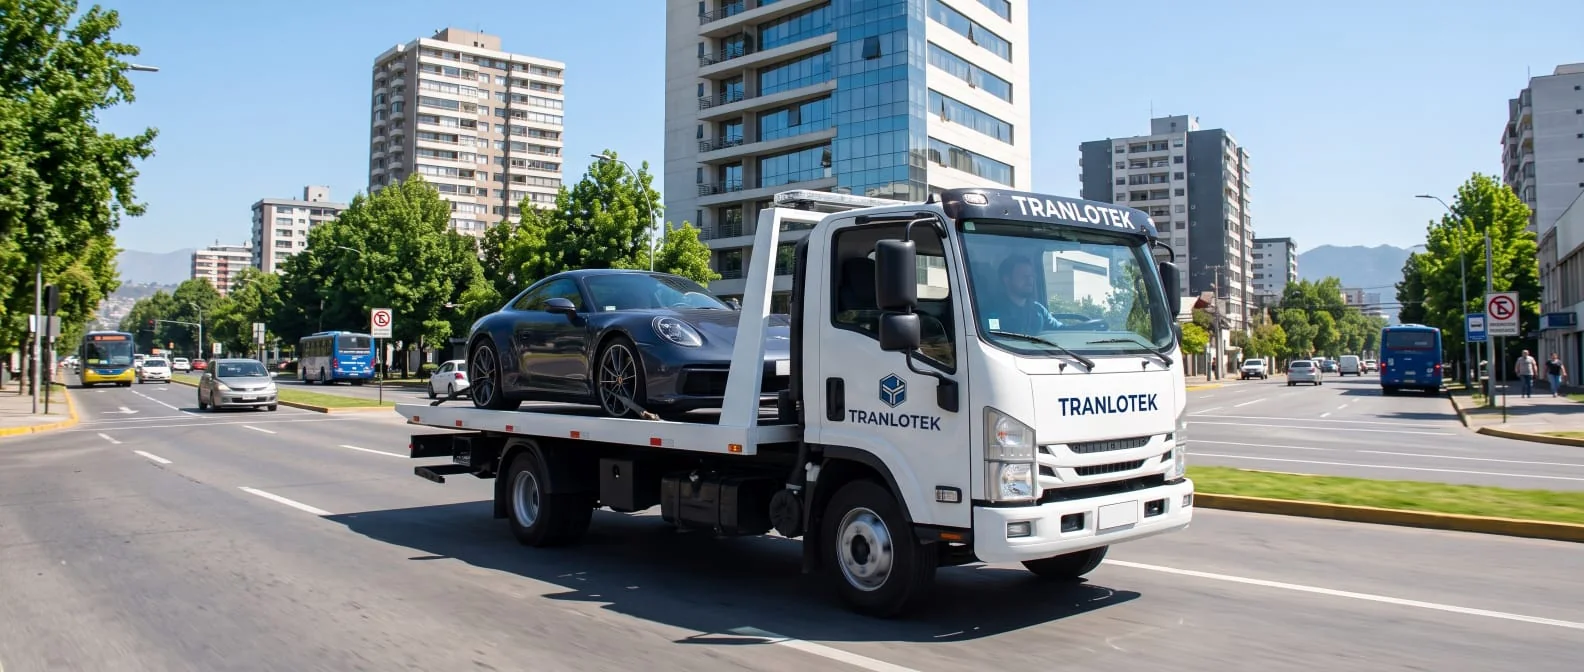
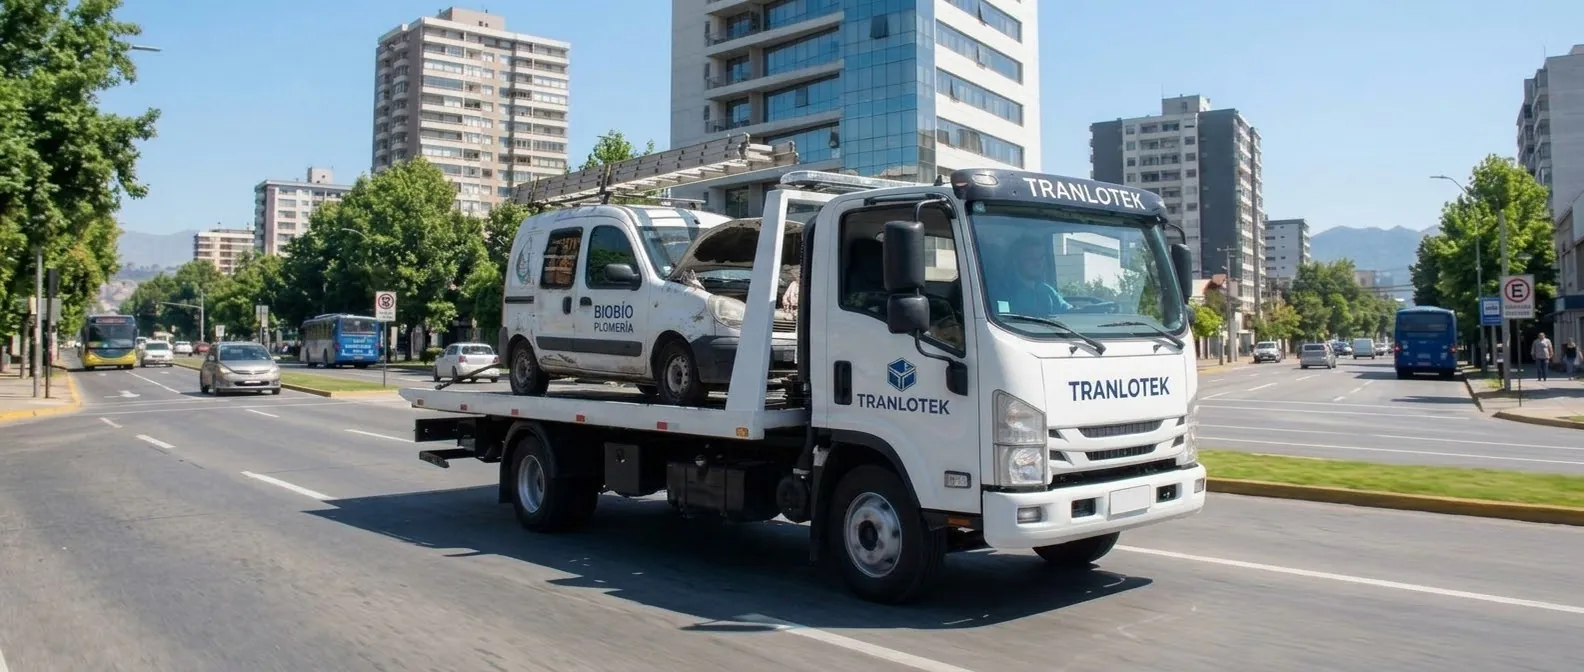
Nuevas fotos de la grúa y de la central

diff --git a/index.html b/index.html
@@ -103,7 +103,7 @@
         <h2 class="big-word about__title" id="about-title">Su vehículo detenido le cuesta. <span>Lo movemos 24/7.</span></h2>
       </div>
       <figure class="fleet">
-        <img src="assets/img/log-seguridad-1584.webp" srcset="assets/img/log-seguridad-800.webp 800w, assets/img/log-seguridad-1584.webp 1584w" sizes="100vw" width="1584" height="672" loading="lazy" alt="Grúa plataforma de TRANLOTEK trasladando un auto deportivo por una avenida de la ciudad.">
+        <img src="assets/img/log-seguridad-1584.webp" srcset="assets/img/log-seguridad-800.webp 800w, assets/img/log-seguridad-1584.webp 1584w" sizes="100vw" width="1584" height="672" loading="lazy" alt="Grúa plataforma de TRANLOTEK trasladando una furgoneta por una avenida de la ciudad.">
       </figure>
       <div class="wrap about__grid">
         <div class="about__text">
@@ -161,7 +161,7 @@
             <p class="services__lead">Cada traslado sigue las mismas cuatro etapas, de la llamada a la entrega. Así sabes dónde está tu vehículo y qué pasó en cada servicio.</p>
           </div>
           <figure class="services__photo">
-            <img src="assets/img/central-1469.webp" srcset="assets/img/central-800.webp 800w, assets/img/central-1469.webp 1469w" sizes="(max-width: 900px) 100vw, 760px" width="1469" height="720" loading="lazy" alt="Tres operadores trabajan frente a una pared de pantallas con el mapa de monitoreo de la zona de Concepción en la central de TRANLOTEK.">
+            <img src="assets/img/central-1584.webp" srcset="assets/img/central-800.webp 800w, assets/img/central-1584.webp 1584w" sizes="(max-width: 900px) 100vw, 760px" width="1584" height="672" loading="lazy" alt="Pantalla de la central de TRANLOTEK con el monitoreo de la flota en la provincia de Concepción: grúas ubicadas en el mapa y su estado.">
             <figcaption>Central de operaciones 24 h</figcaption>
           </figure>
         </div>

diff --git a/assets/css/styles.css b/assets/css/styles.css
@@ -253,7 +253,7 @@ button,input{font:inherit;color:inherit}
 .services{padding-block:var(--section)}
 .services__intro{display:grid;grid-template-columns:minmax(0,4fr) minmax(0,8fr);gap:var(--s-7) clamp(32px,4vw,64px);align-items:end}
 .services__photo{margin-right:calc(-1 * var(--gutter));margin-bottom:calc(-1 * clamp(40px,5vw,72px))}
-.services__photo img{width:100%;height:auto;aspect-ratio:1469/720;object-fit:cover;border-radius:2px}
+.services__photo img{width:100%;height:auto;aspect-ratio:1584/672;object-fit:cover;border-radius:2px}
 .services__lead{margin-top:var(--s-6);max-width:44ch;font-size:1.1875rem;line-height:1.55;color:var(--ink-2)}
 .custody{margin-top:calc(clamp(48px,6vw,96px) + clamp(40px,5vw,72px));display:grid;grid-template-columns:minmax(220px,3fr) minmax(0,9fr);gap:clamp(32px,5vw,80px)}
 .rail{position:relative}
@@ -403,7 +403,7 @@ button,input{font:inherit;color:inherit}
   .boom{display:none}
   .about .dataplate--fleet{margin-top:var(--s-6)}
   .about__text{padding-top:var(--s-6)}
-  .fleet img{aspect-ratio:4/3;object-position:62% 55%}
+  .fleet img{aspect-ratio:4/3;object-position:55% 55%}
   .contact__copy{padding-right:0}
   .footer__grid{grid-template-columns:1fr 1fr}
   .footer__brand{grid-column:1 / -1}
